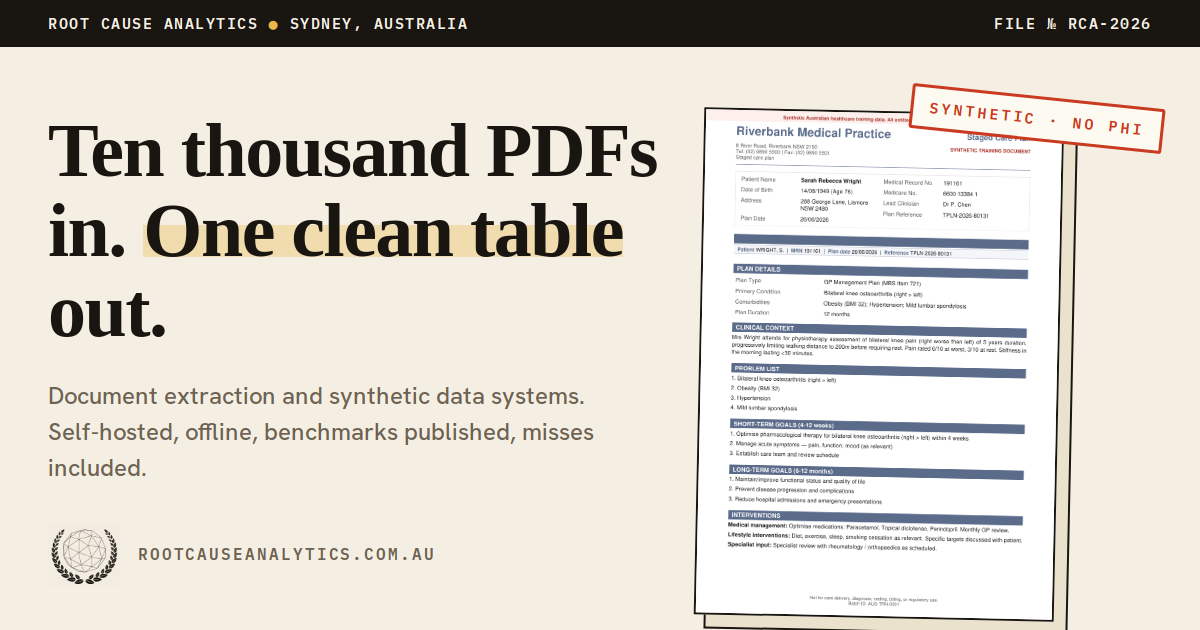
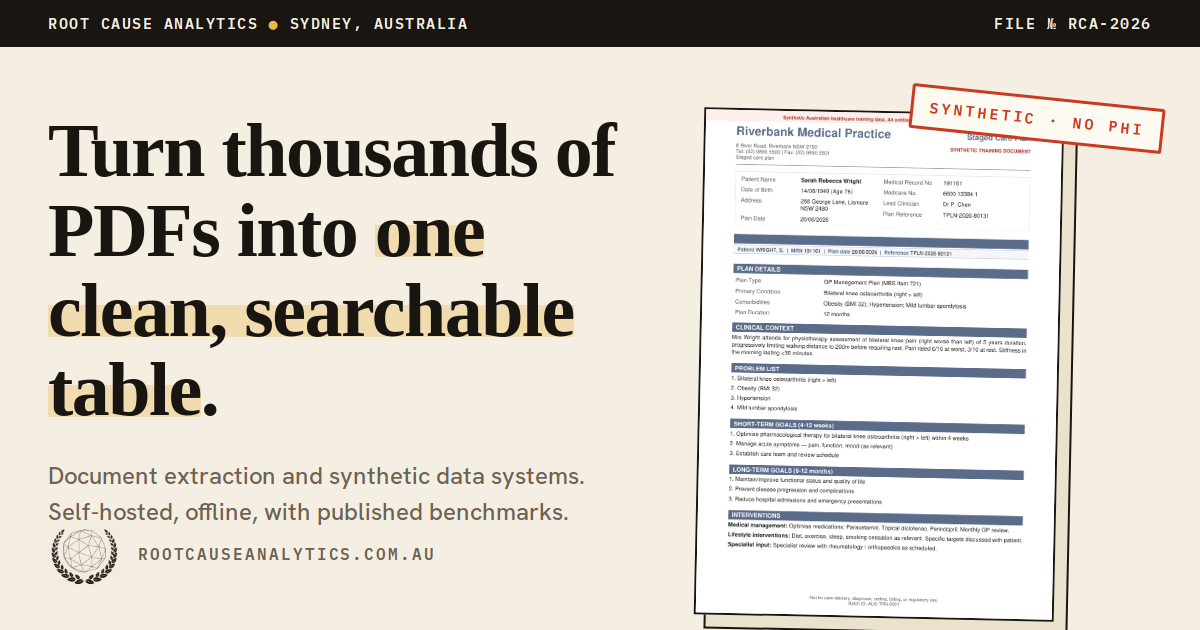
Rewrite aphorism-pair headlines into plain descriptive copy
Jack flagged the two-sentence contrast headlines ("Ten thousand PDFs
in. One clean table out.", "Real enough to train on. Fake enough to
sleep at night.") as reading like AI-written copy. Every hero and CTA
headline now states what the product does in one plain sentence.
OG image regenerated to match the new homepage headline.

Changed region(s): [[0.0308, 0.573, 0.4933, 0.8444], [0.0308, 0.181, 0.555, 0.4222], [0.0308, 0.4524, 0.4933, 0.5429]]

diff --git a/app/page.tsx b/app/page.tsx
@@ -6,7 +6,7 @@ import TrialTable from "@/components/TrialTable";
 import evidence from "@/lib/evidence.json";
 
 export const metadata: Metadata = {
-  title: "Root Cause Analytics · Ten thousand PDFs in. One clean table out.",
+  title: "Root Cause Analytics · Document extraction and synthetic data, Sydney",
   description:
     "RCA turns large quantities of PDFs and paper documents into clean, catalogued tables, and generates realistic synthetic Australian documents for AI training and evaluation. Sydney, Australia.",
   alternates: { canonical: "/" },
@@ -26,8 +26,8 @@ export default function HomePage() {
       <section className="hero">
         <div>
           <h1 className="rv-auto d1">
-            Ten thousand PDFs in. <span className="hl">One clean table</span>{" "}
-            out.
+            Turn thousands of PDFs and paper documents into{" "}
+            <span className="hl">one clean, searchable table</span>.
           </h1>
           <p className="sub rv-auto d2">
             RCA turns large quantities of PDFs and paper documents into{" "}
@@ -199,8 +199,8 @@ export default function HomePage() {
 
       <section className="evidence">
         <div className="sec-head rv">
-          <h2>We publish our misses.</h2>
-          <span>Evidence · live trial {trialDate}</span>
+          <h2>Published live trials</h2>
+          <span>Live trial · {trialDate}</span>
         </div>
         <div className="ev-grid">
           <div className="rv d1">
@@ -258,7 +258,7 @@ export default function HomePage() {
         <div className="cta-card rv">
           <div>
             <h2>
-              See the quality before you <em>spend a dollar.</em>
+              Request a <em>free preview pack.</em>
             </h2>
             <p>
               Request a free preview pack with real sample documents so your

diff --git a/app/document-generator/page.tsx b/app/document-generator/page.tsx
@@ -43,14 +43,14 @@ export default function DocumentGeneratorPage() {
       <section className="page-hero">
         <p className="kicker rv-auto">№ 02 · RCA Document Generator</p>
         <h1 className="rv-auto d1">
-          Real enough to train on. <span className="hl">Fake enough</span> to
-          sleep at night.
+          Realistic synthetic documents for AI training, with{" "}
+          <span className="hl">zero privacy risk.</span>
         </h1>
         <p className="sub rv-auto d2">
           The Generator produces realistic synthetic Australian documents and
-          records for AI training and evaluation, with{" "}
-          <b>zero privacy risk</b>. Every document ships with complete ground
-          truth, so you always know the right answer when you test.
+          records for AI training and evaluation. Every document ships with{" "}
+          <b>complete ground truth</b>, so you always know the right answer
+          when you test.
         </p>
       </section>
 
@@ -109,7 +109,7 @@ export default function DocumentGeneratorPage() {
 
       <section className="section">
         <div className="sec-head rv">
-          <h2>Built for evaluation, not just volume</h2>
+          <h2>Built for evaluation</h2>
           <span>The engineering</span>
         </div>
         <ul className="fact-list red rv d1">
@@ -221,7 +221,7 @@ export default function DocumentGeneratorPage() {
         <div className="cta-card rv">
           <div>
             <h2>
-              Test on documents that <em>cannot hurt anyone.</em>
+              Start with a <em>free sample set.</em>
             </h2>
             <p>
               Request a preview pack with ground truth included, so your team

diff --git a/app/contact/page.tsx b/app/contact/page.tsx
@@ -4,7 +4,7 @@ import ContactForm from "@/components/ContactForm";
 export const metadata: Metadata = {
   title: "Contact",
   description:
-    "Talk to Jack. There is no sales team. Replies within one business day, Sydney time.",
+    "Talk directly with the founder. Replies within one business day, Sydney time.",
   alternates: { canonical: "/contact" },
 };
 
@@ -23,7 +23,7 @@ const FAQ = [
   },
   {
     q: "How is it priced?",
-    a: "Quote-based, with published anchors on each product page: extraction runs at 10 cents per document in the Document Library, and the Generator's Insurance QA Sprint Pack is AUD $2,500. Preview packs and evaluations are free, so you always see the quality before you spend a dollar. Everything is invoiced in Australian dollars.",
+    a: "Quote-based, with published anchors on each product page: extraction runs at 10 cents per document in the Document Library, and the Generator's Insurance QA Sprint Pack is AUD $2,500. Preview packs and evaluations are free, so you can check the quality before you pay. Everything is invoiced in Australian dollars.",
   },
   {
     q: "Can our synthetic documents be mistaken for real records?",
@@ -55,7 +55,7 @@ export default function ContactPage() {
       <section className="page-hero">
         <p className="kicker rv-auto">Contact · direct line</p>
         <h1 className="rv-auto d1">
-          Talk to Jack. There is <span className="hl">no sales team.</span>
+          Talk directly with <span className="hl">the founder.</span>
         </h1>
         <p className="sub rv-auto d2">
           Tell me what documents you are dealing with and what you want out of

diff --git a/app/document-library/page.tsx b/app/document-library/page.tsx
@@ -32,8 +32,8 @@ export default function DocumentLibraryPage() {
       <section className="page-hero">
         <p className="kicker rv-auto">№ 01 · RCA Document Library</p>
         <h1 className="rv-auto d1">
-          From a box of paper to a{" "}
-          <span className="hl">table you can query.</span>
+          Digitise your paper archive into a{" "}
+          <span className="hl">table you can search and audit.</span>
         </h1>
         <p className="sub rv-auto d2">
           The Document Library is a self-hosted app for digitising and

diff --git a/app/evidence/page.tsx b/app/evidence/page.tsx
@@ -31,7 +31,8 @@ export default function EvidencePage() {
       <section className="page-hero">
         <p className="kicker rv-auto">Live trials · published run logs</p>
         <h1 className="rv-auto d1">
-          We publish <span className="hl">our misses.</span>
+          Full run logs for every benchmark,{" "}
+          <span className="hl">including the failures.</span>
         </h1>
         <p className="sub rv-auto d2">
           Most vendors quote one accuracy number. We publish run logs: every

diff --git a/app/articles/page.tsx b/app/articles/page.tsx
@@ -15,7 +15,8 @@ export default function ArticlesPage() {
       <section className="page-hero">
         <p className="kicker rv-auto">Articles · the newsletter</p>
         <h1 className="rv-auto d1">
-          Notes from the <span className="hl">paper mines.</span>
+          Articles on document extraction and{" "}
+          <span className="hl">synthetic data.</span>
         </h1>
         <p className="sub rv-auto d2">
           Short, practical writing on document extraction, synthetic data and

diff --git a/app/about/page.tsx b/app/about/page.tsx
@@ -12,7 +12,7 @@ export default function AboutPage() {
   return (
     <>
       <section className="page-hero">
-        <p className="kicker rv-auto">About · the file on us</p>
+        <p className="kicker rv-auto">About · Root Cause Analytics</p>
         <h1 className="rv-auto d1">
           A one-person company with{" "}
           <span className="hl">published benchmarks.</span>
